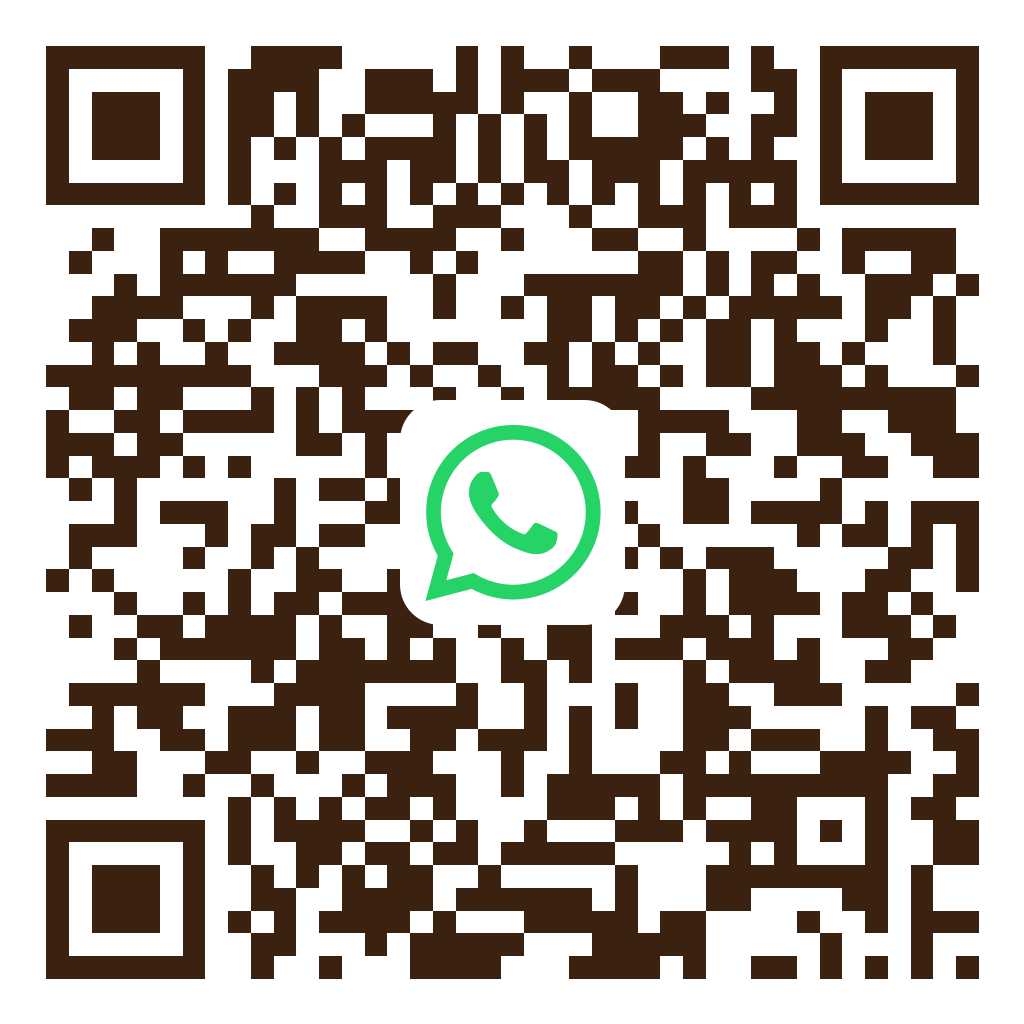
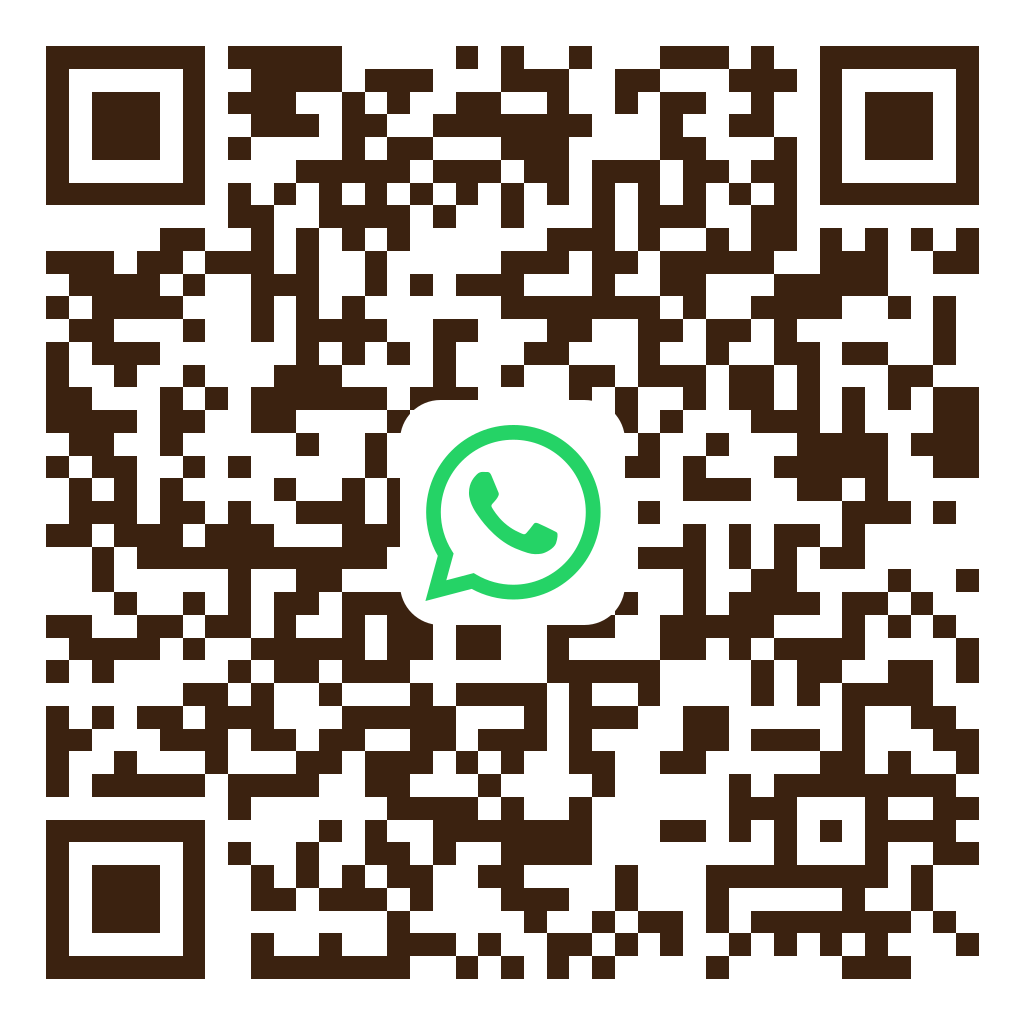
first commit

Changed region(s): [[0.0312, 0.0312, 0.9688, 0.9688]]

diff --git a/src/app/book/page.tsx b/src/app/book/page.tsx
@@ -1,12 +1,14 @@
 import { getBusinessInfo, pageMetadata } from "@/lib/seo-data";
 import { getActiveMenuItems, getLiveOffers, withOffers } from "@/lib/menu-data";
 import { unitPrice } from "@/lib/offers";
+import { WHATSAPP_DISPLAY } from "@/lib/whatsapp";
 import BookingForm from "./BookingForm";
 
 export const generateMetadata = () => pageMetadata("/book");
 
 // Online booking: table reservations and fish-preparation requests (?type=fish opens that tab).
-// Opening hours (for the time slots) and the phone number come from the SEO Studio business info.
+// Opening hours (for the time slots) come from the SEO Studio business info; the phone shown is
+// the WhatsApp number (NEXT_PUBLIC_WHATSAPP_NUMBER).
 export default async function BookPage({ searchParams }: { searchParams: Promise<{ type?: string | string[] }> }) {
   const [{ type }, business, menuItems, offers] = await Promise.all([searchParams, getBusinessInfo(), getActiveMenuItems(), getLiveOffers()]);
   // Dishes to pre-order (same name listed twice in the menu shows once), with offer prices
@@ -23,7 +25,8 @@ export default async function BookPage({ searchParams }: { searchParams: Promise
     <BookingForm
       initialType={type === "fish" ? "fish" : "table"}
       hours={{ opens: business.opens, closes: business.closes }}
-      phone={business.phone}
+      // Bookings use the restaurant mobile (calls and WhatsApp), not the landline
+      phone={WHATSAPP_DISPLAY}
       dishes={dishes}
     />
   );

diff --git a/src/lib/whatsapp.ts b/src/lib/whatsapp.ts
@@ -4,3 +4,6 @@ export const WHATSAPP_NUMBER = process.env.NEXT_PUBLIC_WHATSAPP_NUMBER || '97150
 
 export const whatsapp = (text?: string) =>
   `https://wa.me/${WHATSAPP_NUMBER}${text ? `?text=${encodeURIComponent(text)}` : ''}`
+
+// The same number written for people: 971507487220 -> "+971 50 748 7220"
+export const WHATSAPP_DISPLAY = WHATSAPP_NUMBER.replace(/^971(\d{2})(\d{3})(\d{4})$/, '+971 $1 $2 $3')
